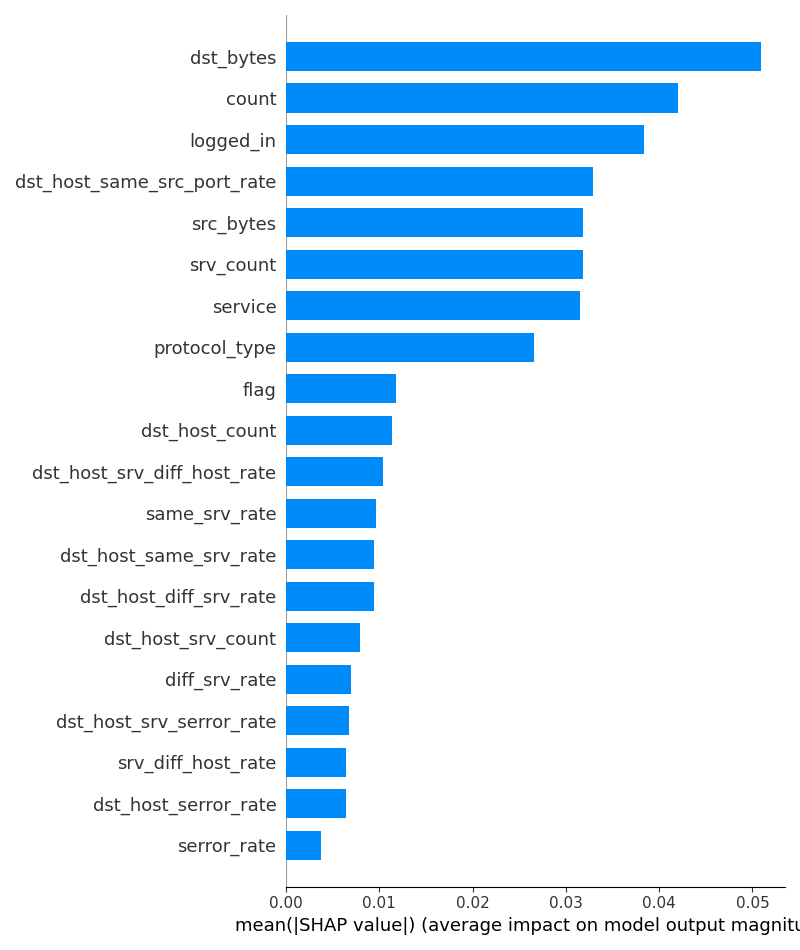
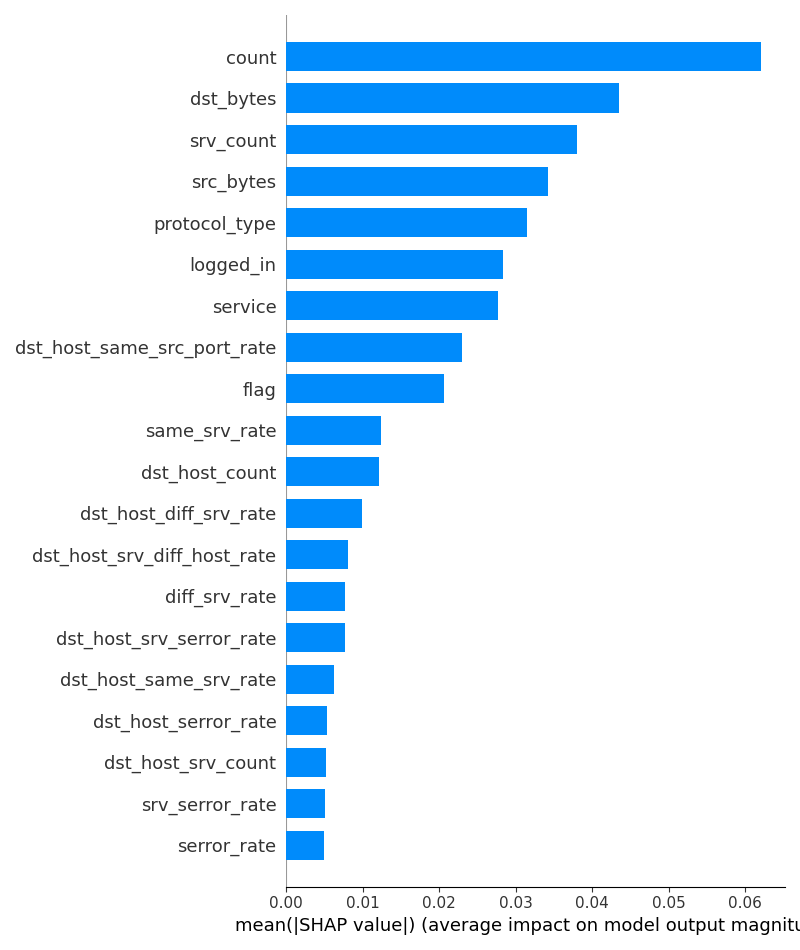
few changes in rag

diff --git a/app.py b/app.py
@@ -18,7 +18,7 @@ st.set_page_config(
 )
 
 # ── Title ─────────────────────────────────────────────
-st.title("AI-Powered Network Intrusion Detection System")
+st.title("Network Intrusion Detection System")
 st.markdown("*Explainable AI for Security Operations — Inspired by AI-REASON project*")
 st.divider()
 
@@ -39,14 +39,14 @@ st.sidebar.markdown("Select a connection to analyze:")
 sample_idx = st.sidebar.slider(
     "Connection Number", 
     min_value=0, 
-    max_value=100, 
+    max_value=500, 
     value=0
 )
 
 analyze_btn = st.sidebar.button("Analyze Connection", type="primary")
 
 # ── Main content ───────────────────────────────────────
-X_sample = X_test.sample(101, random_state=42)
+X_sample = X_test.sample(501, random_state=42)
 
 col1, col2 = st.columns(2)
 
@@ -138,6 +138,11 @@ if analyze_btn:
         fig2 = get_shap_summary_fig(shap_attack, X_sample)
         st.pyplot(fig2)
 
+        st.markdown("**This Connection Specifically:**")
+        from explain import get_shap_local_fig
+        fig3 = get_shap_local_fig(shap_attack, X_sample, sample_idx)
+        st.pyplot(fig3)
+
         st.divider()
         st.markdown("**SHAP Explanation:**")
         
@@ -186,5 +191,87 @@ with SHAP impact of **{top_shap:.4f}**.
         st.divider()
         st.markdown("**RAG Analysis:**")
         st.markdown(rag_explanation)
-st.divider()
-st.caption("Built for AI-REASON project demonstration | Jönköping University")
+
+    st.divider()
+
+    # ── Final Aggregated Summary ───────────────────────────
+    st.subheader("Final Verdict & Recommended Action")
+
+    with st.spinner("Aggregating all analysis..."):
+        
+        # Build aggregated prompt
+        feature_summary = "\n".join([
+            f"- {feat}: value={connection[feat]:.2f}, SHAP impact={shap_val:.4f}"
+            for feat, shap_val in top_features.items()
+        ])
+        
+        mitre_summary = "\n".join([
+            f"- {t['name']} ({t['id']}): {t['mitigation']}"
+            for t in matched_threats
+        ])
+        
+        aggregation_prompt = f"""
+    You are a senior cybersecurity analyst making a final decision.
+
+    You have received THREE independent analyses. Reference each one explicitly:
+
+    1. SHAP ANALYSIS found these top triggers:
+    {chr(10).join([f"   • {feat}: value={connection[feat]:.2f} (SHAP impact={shap_val:.4f})" for feat, shap_val in top_features.items()])}
+
+    2. LLM ANALYSIS identified:
+    {llm_explanation[:200]}...
+
+    3. RAG THREAT INTELLIGENCE matched:
+    {chr(10).join([f"   • {t['name']} ({t['id']})" for t in matched_threats])}
+
+    Write your final verdict in this EXACT format:
+
+    ## SHAP Says:
+    One sentence summarizing what the top SHAP features indicate
+
+    ## LLM Says:
+    One sentence summarizing the LLM attack identification
+
+    ## RAG Says:
+    One sentence summarizing the MITRE ATT&CK match
+
+    ## Final Verdict:
+    - **Attack Type:** (specific name)
+    - **Confidence:** High/Medium/Low
+    - **Reason:** One sentence combining all three analyses
+
+    ## Immediate Action:
+    One clear directive — what to do RIGHT NOW
+
+    ## 30-Minute Plan:
+    - Point 1
+    - Point 2
+    - Point 3
+    """
+        
+        from anthropic import Anthropic
+        from dotenv import load_dotenv
+        import os
+        load_dotenv()
+        
+        final_client = Anthropic(api_key=os.getenv("ANTHROPIC_API_KEY"))
+        
+        final_message = final_client.messages.create(
+            model="claude-sonnet-4-6",
+            max_tokens=400,
+            messages=[{"role": "user", "content": aggregation_prompt}]
+        )
+        
+        # Display with clear visual
+        if prediction == 1:
+            st.error("THREAT CONFIRMED")
+        else:
+            st.success("NO THREAT DETECTED")
+        
+        st.markdown(final_message.content[0].text)
+        
+        # Action button
+        st.warning(" Take action now based on the recommendations above!")
+    
+    st.divider()
+    st.caption("Built for AI-REASON project demonstration | Jönköping University")

diff --git a/rag_explain.py b/rag_explain.py
@@ -90,7 +90,7 @@ for item in threat_data:
         ids=[item["id"]]
     )
 
-print("✅ RAG system ready!")
+print("RAG system ready!")
 
 def rag_explain(top_features, prediction, connection):
     """
@@ -175,18 +175,18 @@ if __name__ == "__main__":
     }
     
     print("\n" + "="*60)
-    print("🔍 RAG-ENHANCED SECURITY ANALYSIS")
+    print(" RAG-ENHANCED SECURITY ANALYSIS")
     print("="*60)
     
     explanation, matched_threats = rag_explain(
         top_features, 1, connection
     )
     
-    print("\n📚 Matched MITRE ATT&CK Techniques:")
+    print("\nMatched MITRE ATT&CK Techniques:")
     for threat in matched_threats:
         print(f"  • {threat['name']} ({threat['id']})")
     
-    print("\n🤖 AI Analysis with Threat Intelligence:")
+    print("\nAI Analysis with Threat Intelligence:")
     print("-"*60)
     print(explanation)
     print("="*60)

diff --git a/explain.py b/explain.py
@@ -26,6 +26,21 @@ def get_shap_summary_fig(shap_attack, X_sample):
     plt.tight_layout()
     return fig
 
+def get_shap_local_fig(shap_attack, X_sample, sample_idx):
+    """Shows SHAP explanation for ONE specific connection"""
+    fig, ax = plt.subplots(figsize=(10, 4))
+    shap.waterfall_plot(
+        shap.Explanation(
+            values=shap_attack[sample_idx],
+            base_values=0,
+            data=X_sample.iloc[sample_idx],
+            feature_names=X_sample.columns.tolist()
+        ),
+        show=False
+    )
+    plt.tight_layout()
+    return fig
+
 def explain_connection(connection, shap_row, prediction, X, sample_idx):
     feature_names = X.columns.tolist()
     shap_series = pd.Series(shap_row, index=feature_names)
